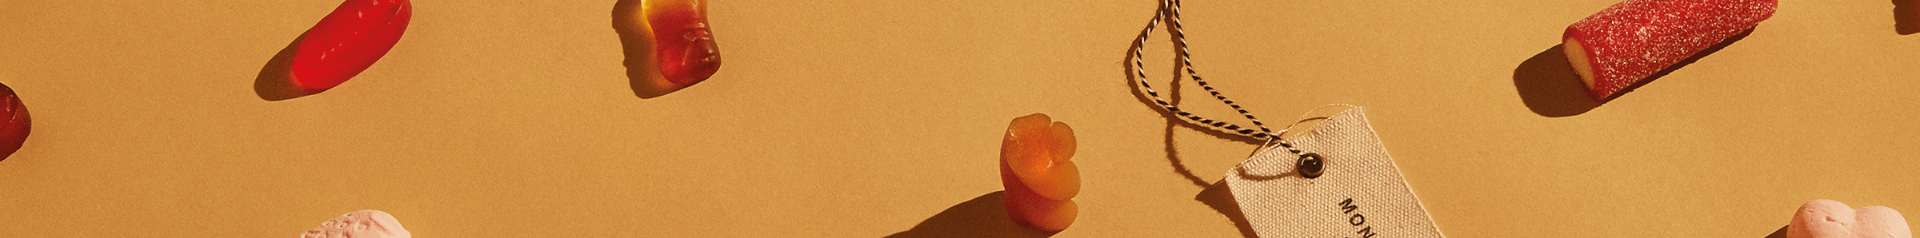
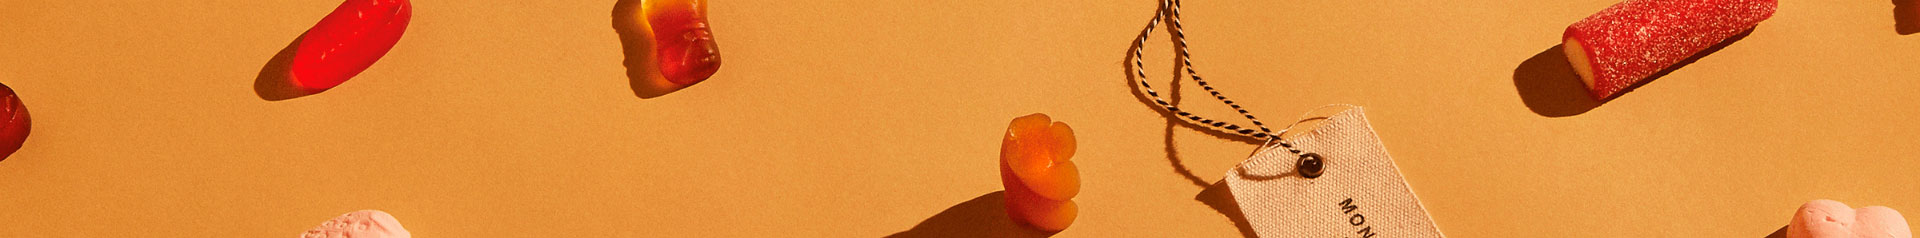
Billeder komprimeret

diff --git a/inspiration.html b/inspiration.html
@@ -33,7 +33,7 @@
     </nav>
   </header>
   <!-- Slut 1. Semester - eksamensprojekt Kasper - Mobil menu -->
-  <section class="main-img"><img src="images/krop-forside.png" alt="slik-forside">
+  <section class="main-img"><img src="images/krop-forside.jpg" alt="slik-forside">
     <h1 class="main-img-content">INSPIRATION</h1>
     </section>
 
@@ -41,27 +41,27 @@
     <!-- Photo Grid -->
     <div class="row2">
       <div class="column">
-        <img src="images/grid1.jpeg" alt="bolig-inspiration">
-        <img src="images/grid2.jpeg" alt="indretningstips">
-        <img src="images/grid3.jpeg" alt="produkter-til-hjemmet">
+        <img src="images/grid1.jpg" alt="bolig-inspiration">
+        <img src="images/grid2.jpg" alt="indretningstips">
+        <img src="images/grid3.jpg" alt="produkter-til-hjemmet">
       </div>
 
       <div class="column">
-        <img src="images/grid4.jpeg" alt="produkter-til-boligen">
-        <img src="images/grid5.jpeg" alt="baeredygte-produkter">
-        <img src="images/grid6.jpeg" alt="baeredygtighed">
+        <img src="images/grid4.jpg" alt="produkter-til-boligen">
+        <img src="images/grid5.jpg" alt="baeredygte-produkter">
+        <img src="images/grid6.jpg" alt="baeredygtighed">
       </div>
 
       <div class="column">
-        <img src="images/grid7.jpeg" alt="god-kvalitet">
-        <img src="images/grid8.jpeg" alt="gode-priser">
-        <img src="images/grid9.jpeg" alt="saesonnyheder">
+        <img src="images/grid7.jpg" alt="god-kvalitet">
+        <img src="images/grid8.jpg" alt="gode-priser">
+        <img src="images/grid9.jpg" alt="saesonnyheder">
       </div>
 
       <div class="column">
-        <img src="images/grid10.jpeg" alt="nyheder-til-boligen">
-        <img src="images/grid11.jpeg" alt="bliv-inspireret">
-        <img src="images/grid12.jpeg" alt="stilfulde-produkter">
+        <img src="images/grid10.jpg" alt="nyheder-til-boligen">
+        <img src="images/grid11.jpg" alt="bliv-inspireret">
+        <img src="images/grid12.jpg" alt="stilfulde-produkter">
       </div>
     </div>
 

diff --git a/vores-historie.html b/vores-historie.html
@@ -58,14 +58,14 @@
             såsom poser er bæredygtige.
           </p>
         </div>
-        <img src="images/aarhus.png" alt="butik-aarhus">
+        <img src="images/aarhus.jpg" alt="butik-aarhus">
         <h4>Århus</h4>
       </div>
     </div>
 
     <div class="section2">
       <div class="flex reverse">
-        <img src="images/koebenhavn.png" alt="butik-koebenhavn">
+        <img src="images/koebenhavn.jpg" alt="butik-koebenhavn">
         <h4>København</h4>
         <div class="center">
           <img src="images/gris-icon2.png" alt="ikon-gris">
@@ -102,7 +102,7 @@
             dyr, hvilket er super vigtigt for os som virksomhed.
           </p>
         </div>
-        <img src="images/vores-produkter.png" alt="produkter">
+        <img src="images/vores-produkter.jpg" alt="produkter">
         <h4>Produkter</h4>
       </div>
     </div>

diff --git a/kropspleje.html b/kropspleje.html
@@ -37,7 +37,7 @@
     </nav>
   </header>
   <!-- Slut 1. Semester - eksamensprojekt Kasper - Mobil menu -->
-  <section class="main-img"><img src="images/krop-forside.png" alt="slik-forside">
+  <section class="main-img"><img src="images/krop-forside.jpg" alt="slik-forside">
     <h1 class="main-img-content">KROPSPLEJE</h1>
     </section>
 
